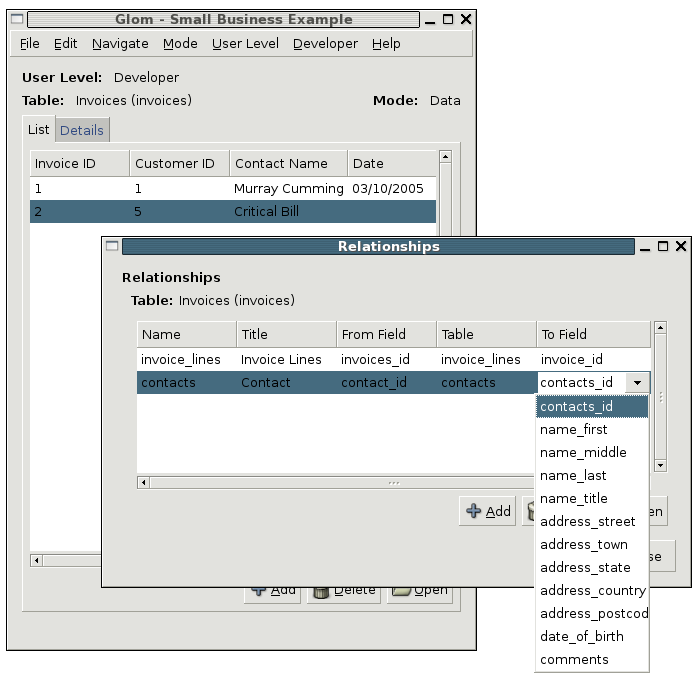
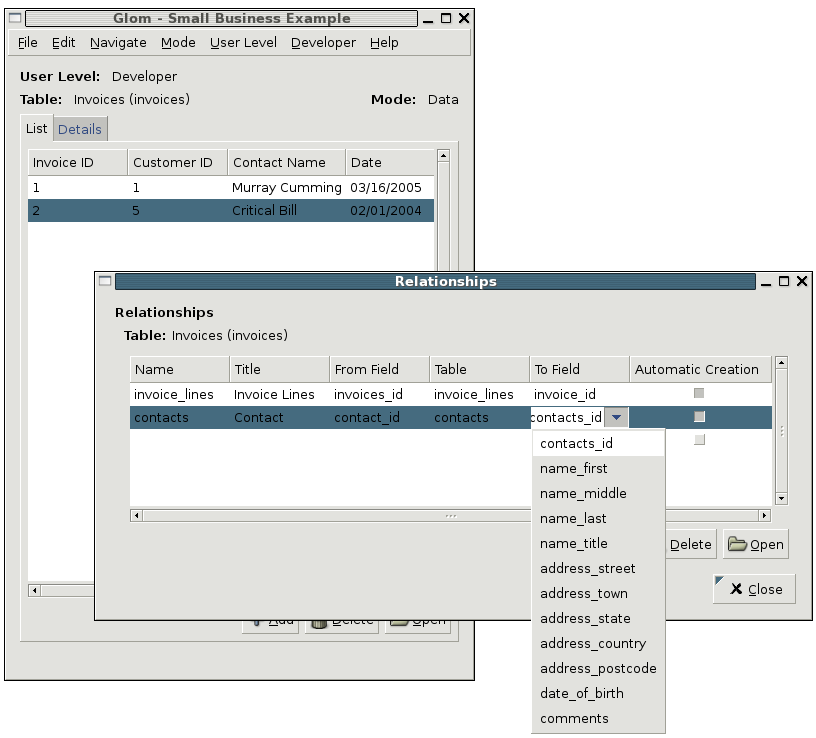
Increased version

diff --git a/docs/website/screenshots/index.html b/docs/website/screenshots/index.html
@@ -98,8 +98,11 @@
 <h3><a name="developer_relationships" />Designing Relationships</h3>
 
   <img src="glom_design_relationships.png" />
-  <p>The tables in a relational database are related, so that the data from one table can be used by another table. A relationship can be used to <a href="#developer_fields_lookup">lookup</a> data from a field in another table, or to 
-show a list of <a href="#developer_layout_details_related">related records</a>.</p> 
+  <p>The tables in a relational database are related, so that the data from one table can be used by another table. A relationship can be used to <a href="#developer_fields_lookup">lookup</a> data from a field in another table, or to show a list of <a href="#developer_layout_details_related">related records</a>.</p> 
+  <p>You can specify whether the relationship should automatically create related records. For instance,
+<ul>
+<li>You would want to automatically create new Invoice Lines from the Invoice details, via the <a href="developer_layout_details_related">related records</a>, without first creating the records in the Invoice Lines table itself.</li>
+<li>When you show the customer's name on the Invoice, using a <a href="developer_layout_related_fields">related field</a>, you probably don't want to create a new customer record by entering data in to the related field. Of course, if you don't even want to edit an existing customer name record via the Invoice then you can just make the <a href="developer_layout_related_fields">related field</a> non-editable.</li>
 
 <h3><a name="developer_layout_details" />Designing the Details Layout</h3>
 
@@ -120,5 +123,5 @@ show a list of <a href="#developer_layout_details_related">related records</a>.<
 
   <img src="glom_design_layout_details_related_fields.png" />
   <p>Both the Details and List layouts may contain fields from related tables. Just choose the <a href="#developer_relationships">relationship</a>, and then choose from the list of fields in the related table.</p>
-
+  <p>Note that you can prevent editing of fields. For instance, maybe you don't want to edit the customer's name via the Invoice details, because this would then be seen on every other Invoice for that customer.</p>
 </body></html>

diff --git a/glom/mode_design/box_db_table_relationships.cc b/glom/mode_design/box_db_table_relationships.cc
@@ -42,7 +42,7 @@ void Box_DB_Table_Relationships::init()
   m_colFromField = m_AddDel.add_column(gettext("From Field"), AddDelColumnInfo::STYLE_Choices);
   m_colToTable = m_AddDel.add_column(gettext("Table"), AddDelColumnInfo::STYLE_Choices);
   m_colToField = m_AddDel.add_column(gettext("To Field"), AddDelColumnInfo::STYLE_Choices);
-  m_colAutoCreate = m_AddDel.add_column(gettext("Automatic Record Creation"),  AddDelColumnInfo::STYLE_Boolean);
+  m_colAutoCreate = m_AddDel.add_column(gettext("Automatic Creation"),  AddDelColumnInfo::STYLE_Boolean);
 
   //Connect signals:
   m_AddDel.signal_user_activated().connect(sigc::mem_fun(*this, &Box_DB_Table_Relationships::on_adddel_user_activated));
